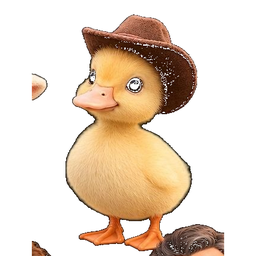
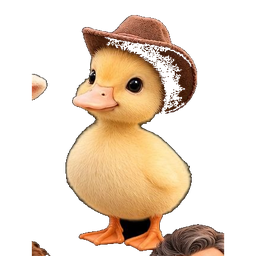
Аватары: фон удаляется по краям, глаза сохранены

diff --git a/js/account.js b/js/account.js
@@ -232,7 +232,7 @@ const Account = (() => {
           <label class="ac-ava" title="Нажмите, чтобы выбрать фото">${I.avatar ? `<img src="${esc(I.avatar)}" alt="">` : `<span>${esc(initials(I.name) || "👤")}</span>`}<input type="file" id="acPhoto" accept="image/*" hidden><em>${I.avatar ? "сменить" : "фото"}</em></label>
           <div class="ac-ava-set" id="acAvaSet">
             <span class="small">Или выберите готовый:</span>
-            <div class="ac-ava-grid">${[1,2,3,4,5,6,7].map(i=>`<button type="button" class="ac-ava-btn" data-ava="js/avatars/a${i}.png" title="Без фона"><img src="js/avatars/a${i}.png" alt=""></button>`).join("")}${[1,2,3,4,5,6,7].map(i=>`<button type="button" class="ac-ava-btn" data-ava="js/avatars/a${i}w.png" title="На белом"><img src="js/avatars/a${i}w.png" alt=""></button>`).join("")}</div>
+            <div class="ac-ava-grid">${[1,2,3,4,5,6,7].map(i=>`<button type="button" class="ac-ava-btn" data-ava="js/avatars/a${i}.png?v=2" title="Без фона"><img src="js/avatars/a${i}.png?v=2" alt=""></button>`).join("")}${[1,2,3,4,5,6,7].map(i=>`<button type="button" class="ac-ava-btn" data-ava="js/avatars/a${i}w.png?v=2" title="На белом"><img src="js/avatars/a${i}w.png?v=2" alt=""></button>`).join("")}</div>
           </div>
           <div class="ac-fields">
             <input type="text" id="acName" placeholder="Имя и фамилия" value="${esc(I.name || "")}" autocomplete="name">

diff --git a/sw.js b/sw.js
@@ -5,7 +5,7 @@
    • Библиотеки (Word, PowerPoint, PDF, шрифты): из кэша, если уже были загружены.
    • Ответы Википедии и Викитеки запоминаются: урок по той же теме без сети соберётся с ними.
    • Ключи нейросетей, запросы к нейросетям и к GitHub в кэш не попадают. */
-const VERSION = "uchu-v5.267";
+const VERSION = "uchu-v5.268";
 const SHELL = ["./", "index.html", "css/v5.css", "data/base.js", "data/own.js", "data/extra.js", "data/frp.js", "data/promo.js", "data/legal.js", "manifest.json",
   "vendor/marked.umd.js", "vendor/purify.min.js", "vendor/turndown.js", "vendor/turndown-plugin-gfm.js", "vendor/pptxgen.bundle.js", "vendor/jszip.min.js", "vendor/docx.umd.js",
   ...["log", "cleaner", "learn", "learn2", "variety", "methodbase", "plans-loader", "kits-loader", "imagegen", "frpkit", "subjects", "usage", "heur", "litkit", "notes", "verify", "ocr", "materials", "collect", "devmode", "devcover", "account", "cloudbase", "rules", "schemes", "layout", "lessonnotes", "tutor", "mnemo", "themes", "themes2", "video", "photostk", "access", "rukit", "deck", "slides", "publish", "sync", "worksearch", "ai", "blobs"].map(n => `js/${n}.js`)];
